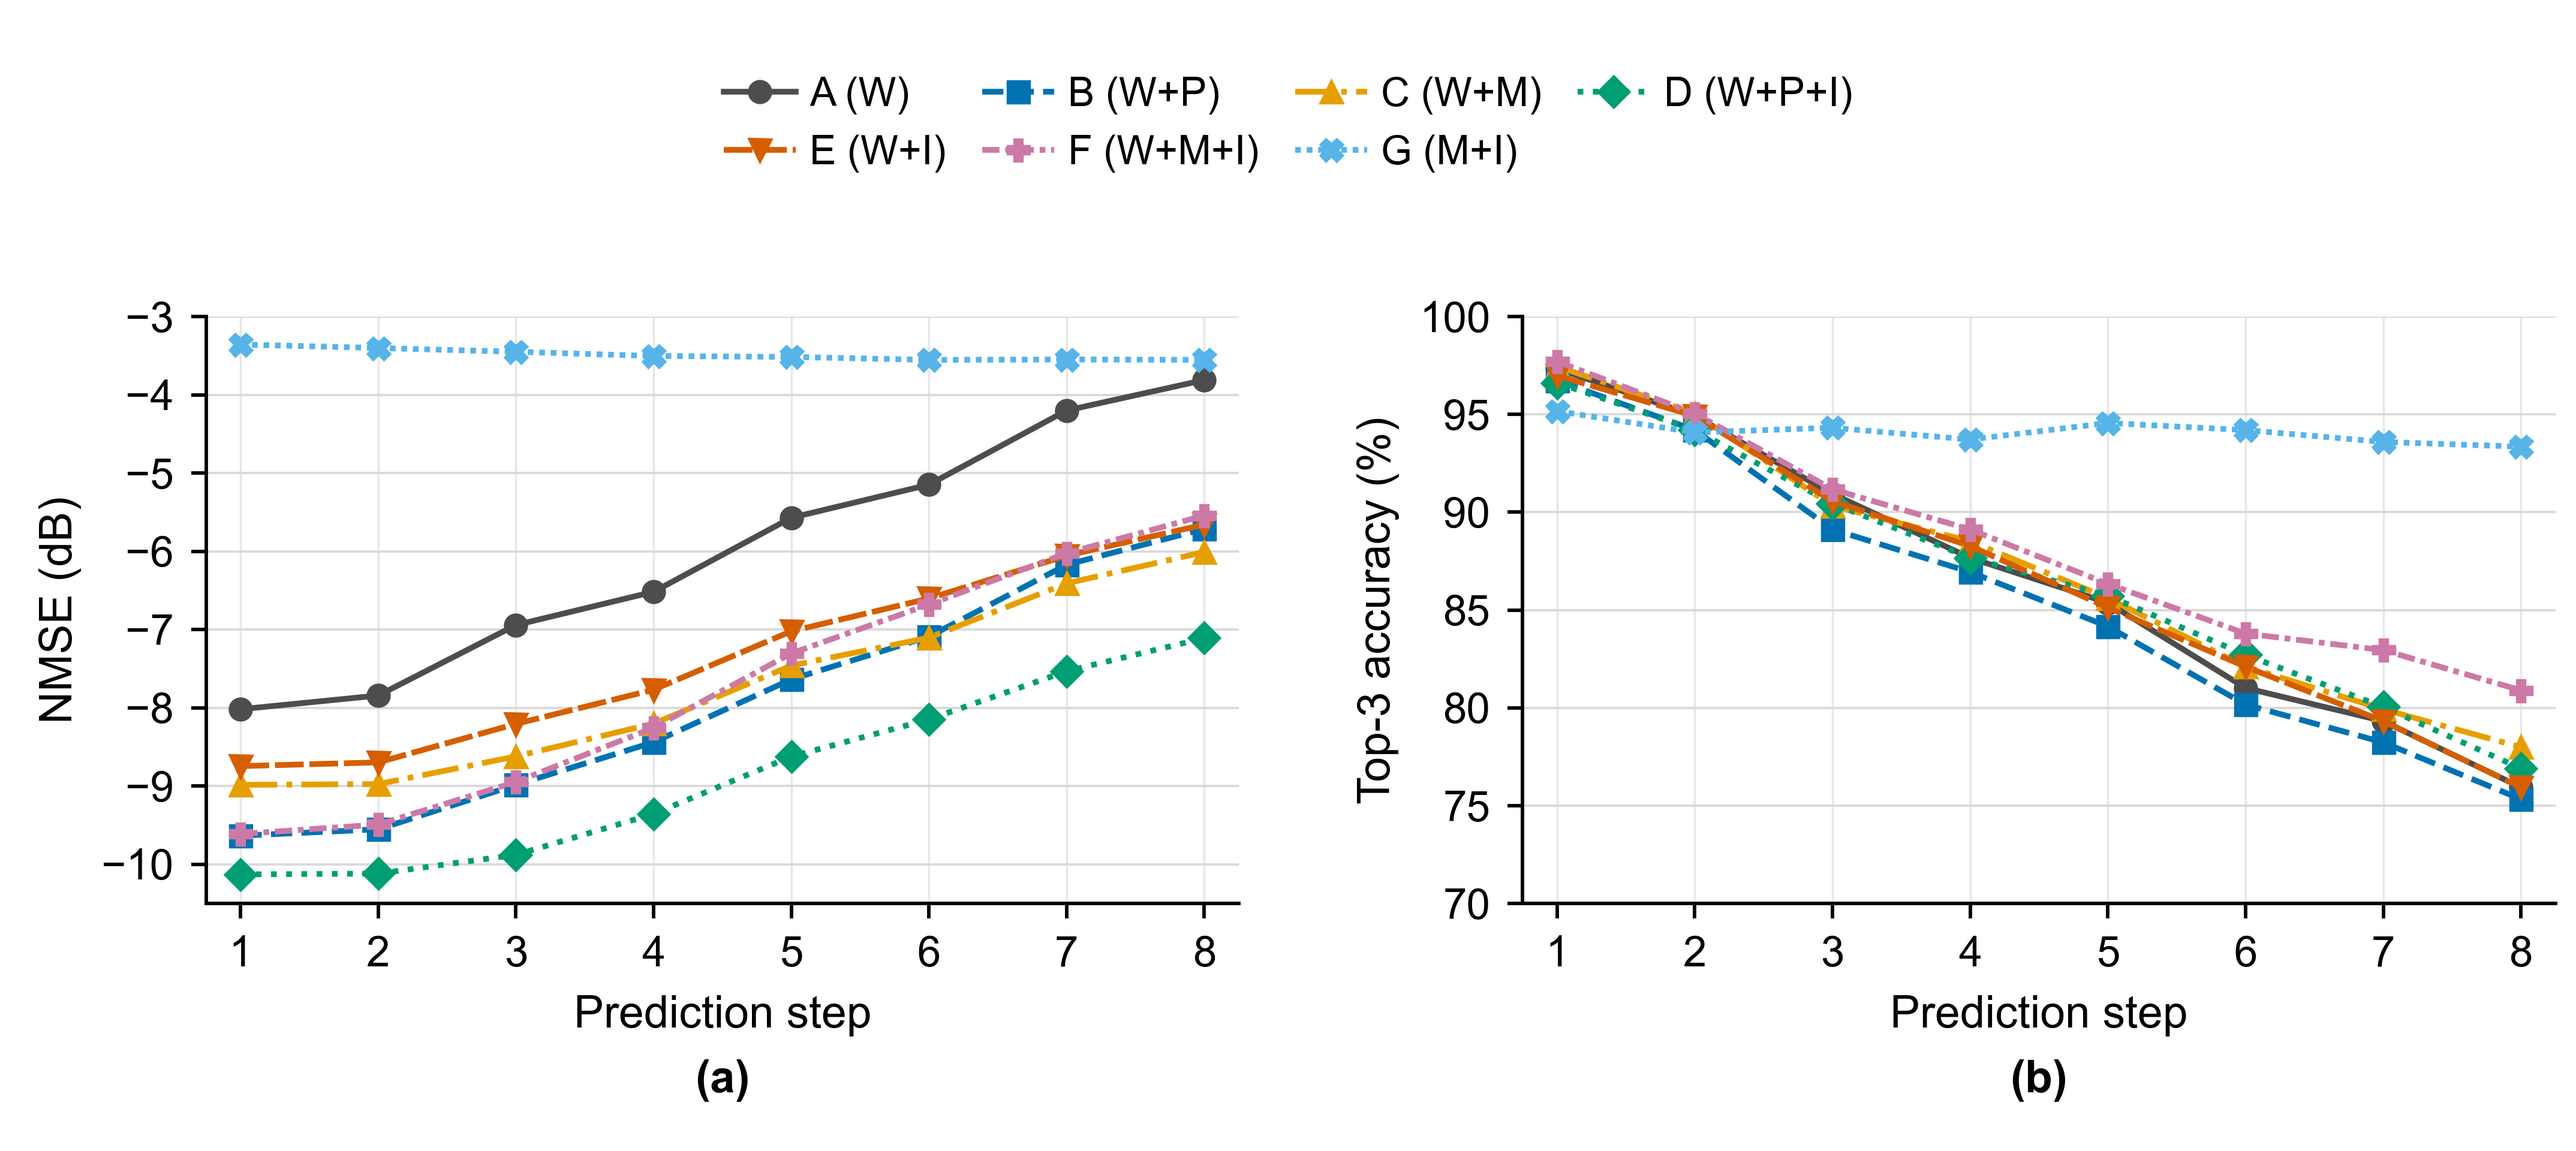
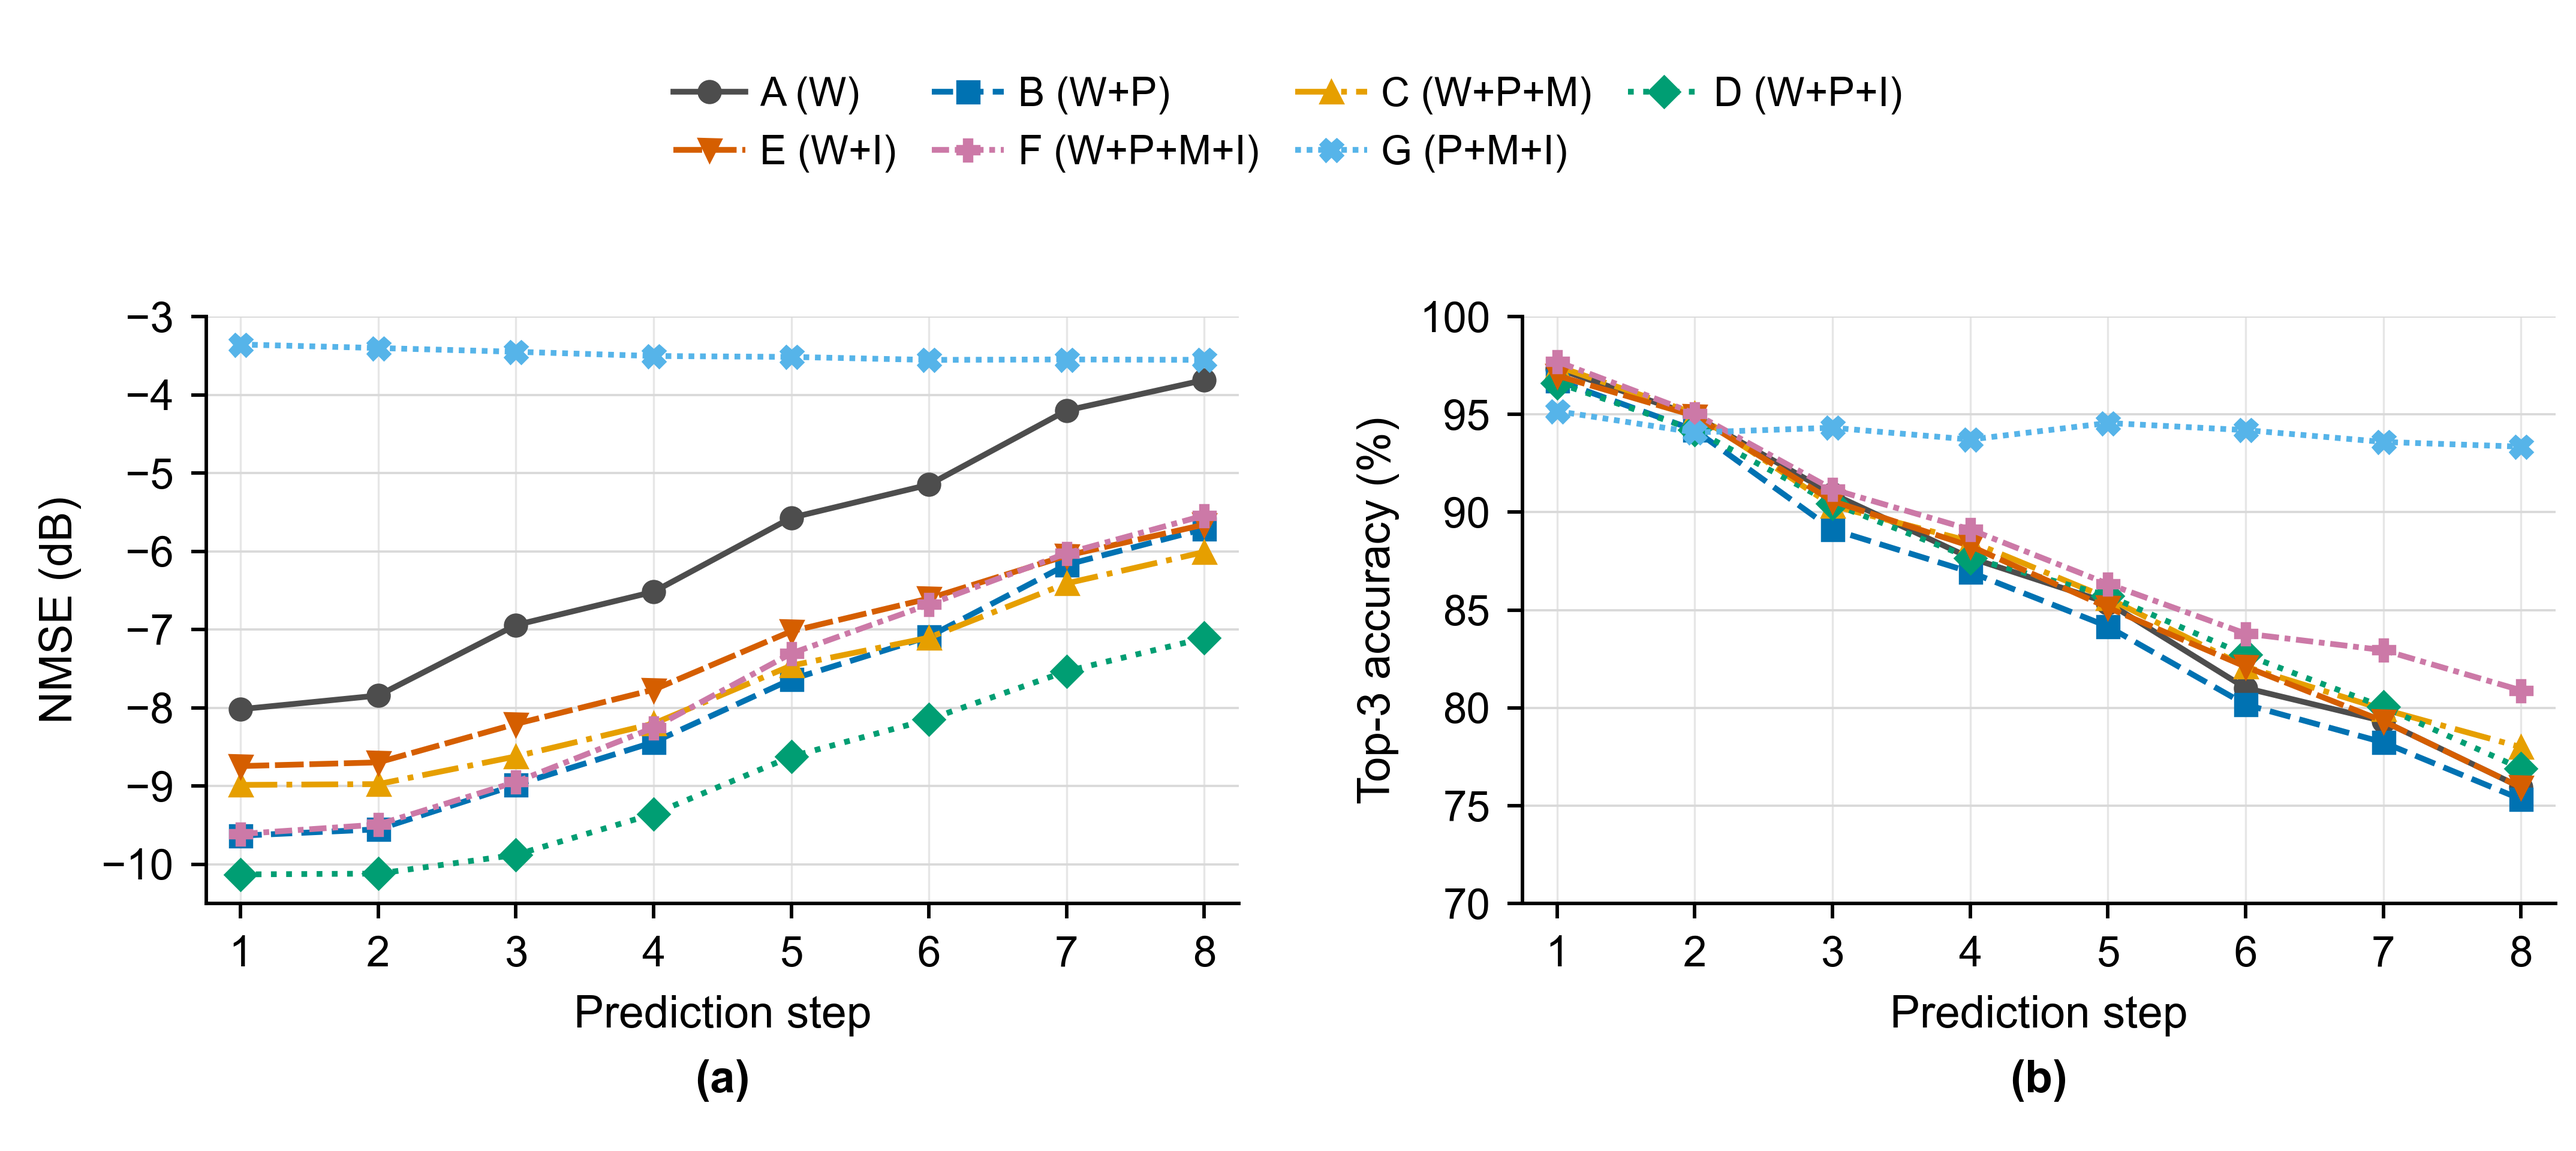
Clarify position and motion modality notation

Changed region(s): [[0.2495, 0.0625, 0.4679, 0.1562], [0.5615, 0.0625, 0.7486, 0.1562]]

diff --git a/reproducibility/chapter4_figures/plot_ieee_figures.py b/reproducibility/chapter4_figures/plot_ieee_figures.py
@@ -43,11 +43,11 @@ LINE_STYLES = {
 MODALITY_LABELS = {
     "A": "A (W)",
     "B": "B (W+P)",
-    "C": "C (W+M)",
+    "C": "C (W+P+M)",
     "D": "D (W+P+I)",
     "E": "E (W+I)",
-    "F": "F (W+M+I)",
-    "G": "G (M+I)",
+    "F": "F (W+P+M+I)",
+    "G": "G (P+M+I)",
 }
 
 

diff --git a/第四章_CSI实验结果与波束占位.md b/第四章_CSI实验结果与波束占位.md
@@ -23,13 +23,13 @@
 | --- | --- |
 | A | W |
 | B | W+P |
-| C | W+M |
+| C | W+P+M |
 | D | W+P+I |
 | E | W+I |
-| F | W+M+I |
-| G | M+I |
+| F | W+P+M+I |
+| G | P+M+I |
 
-W 为任务相关的历史无线观测，P 为位置，M 为位置、线速度和四元数姿态，I 为与当前基站链路对应的 RGB。
+W 为任务相关的历史无线观测，P 为位置，M 为线速度和四元数姿态，I 为与当前基站链路对应的 RGB。
 
 ## 3. CSI 常规两步预测
 
